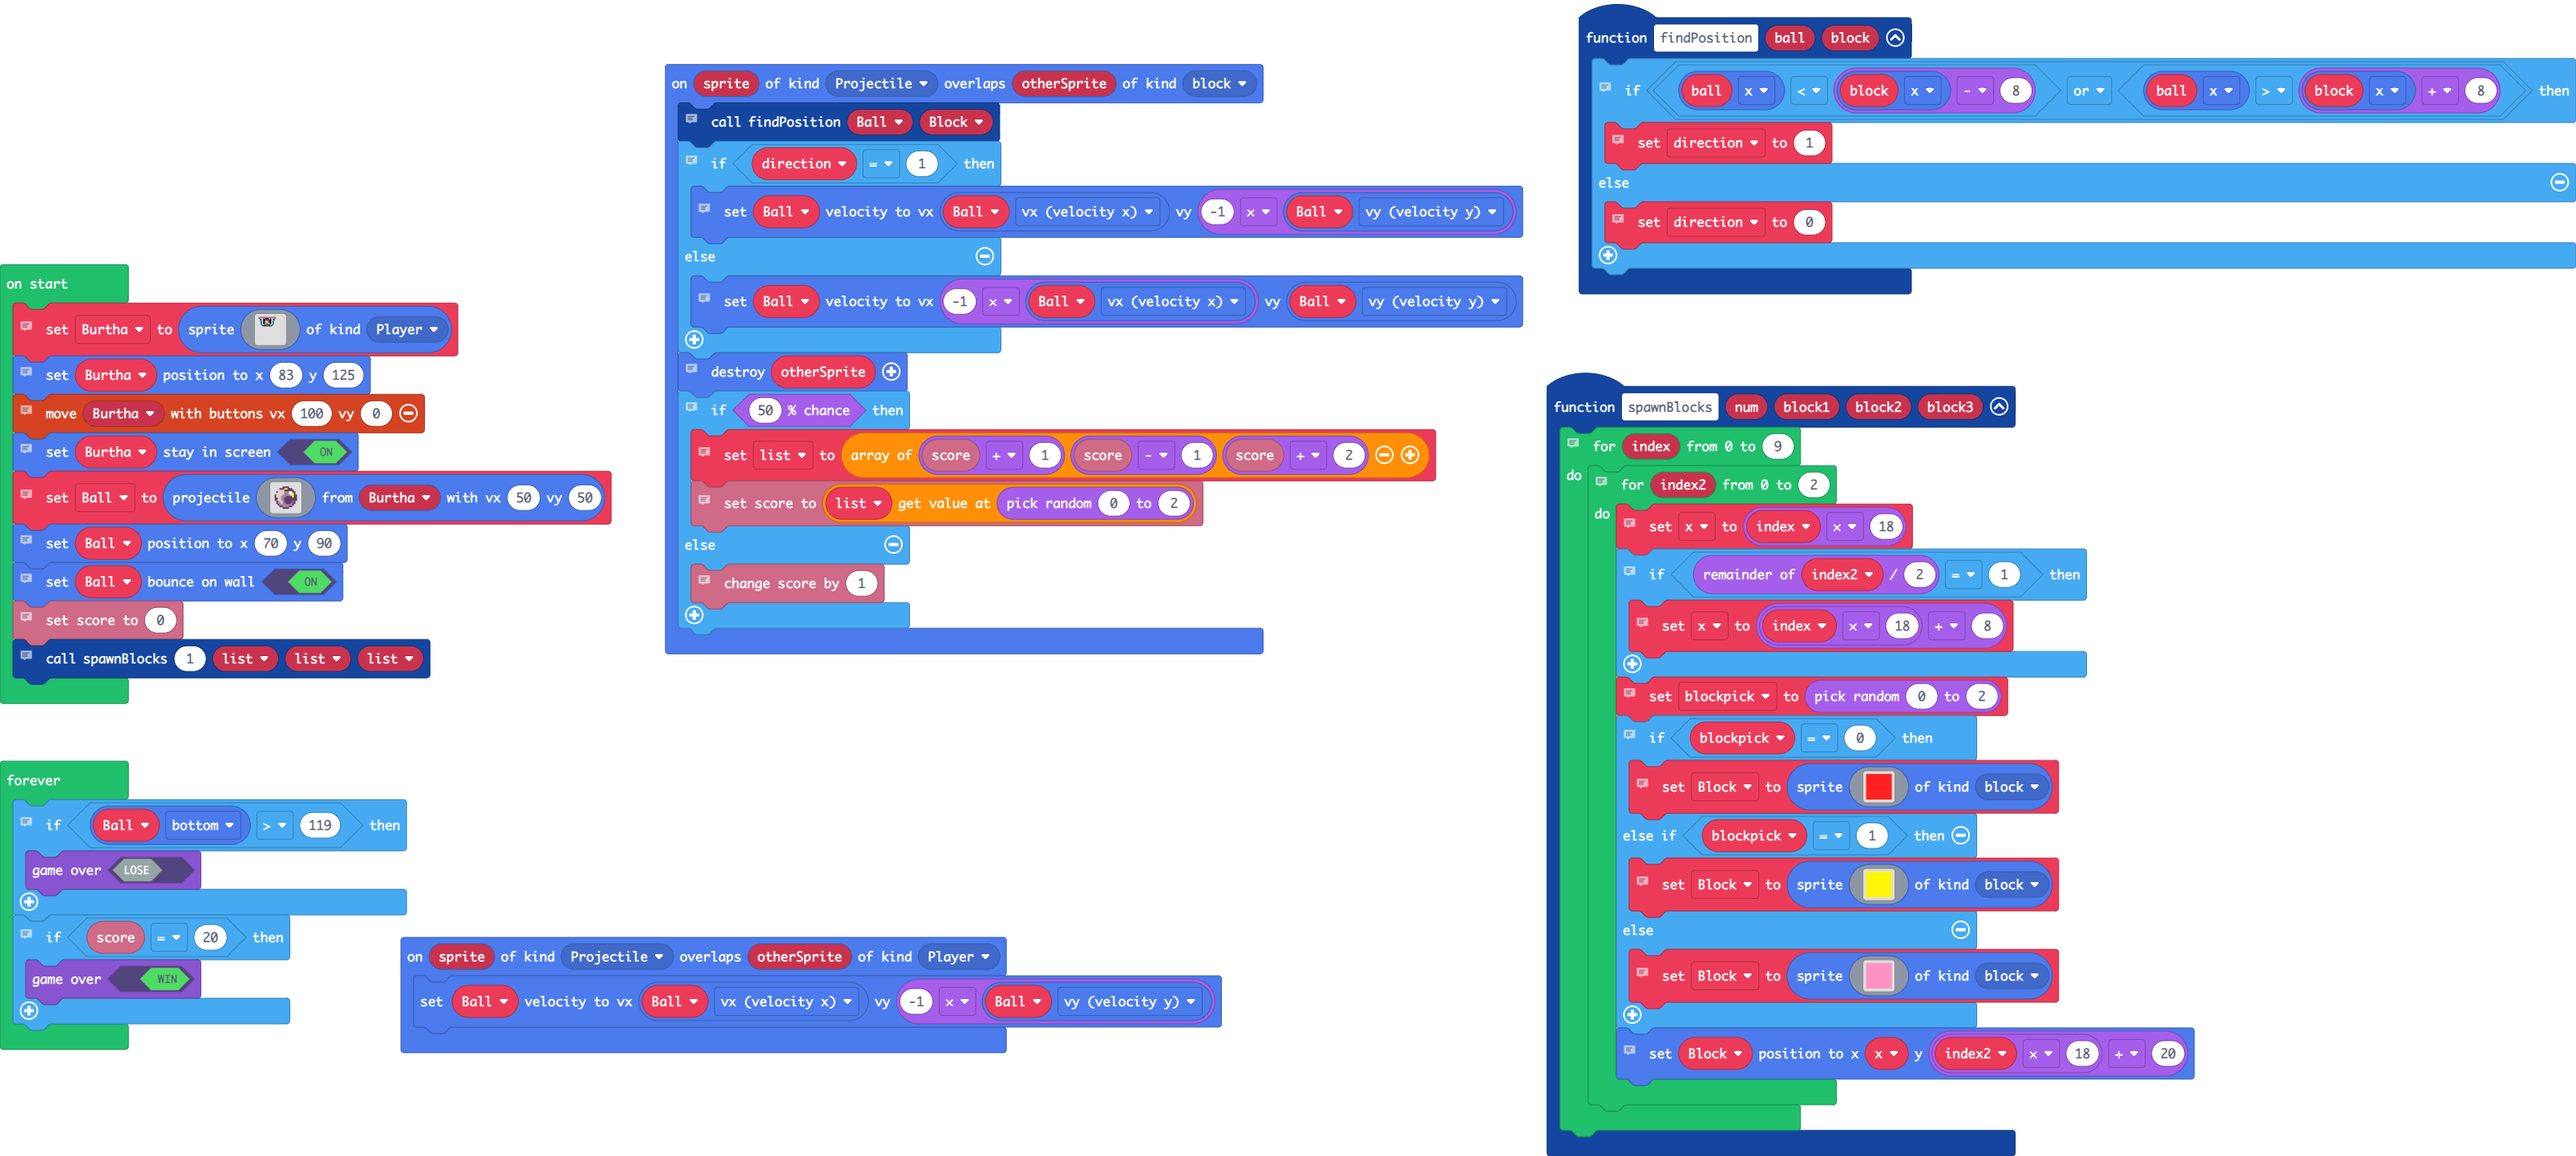
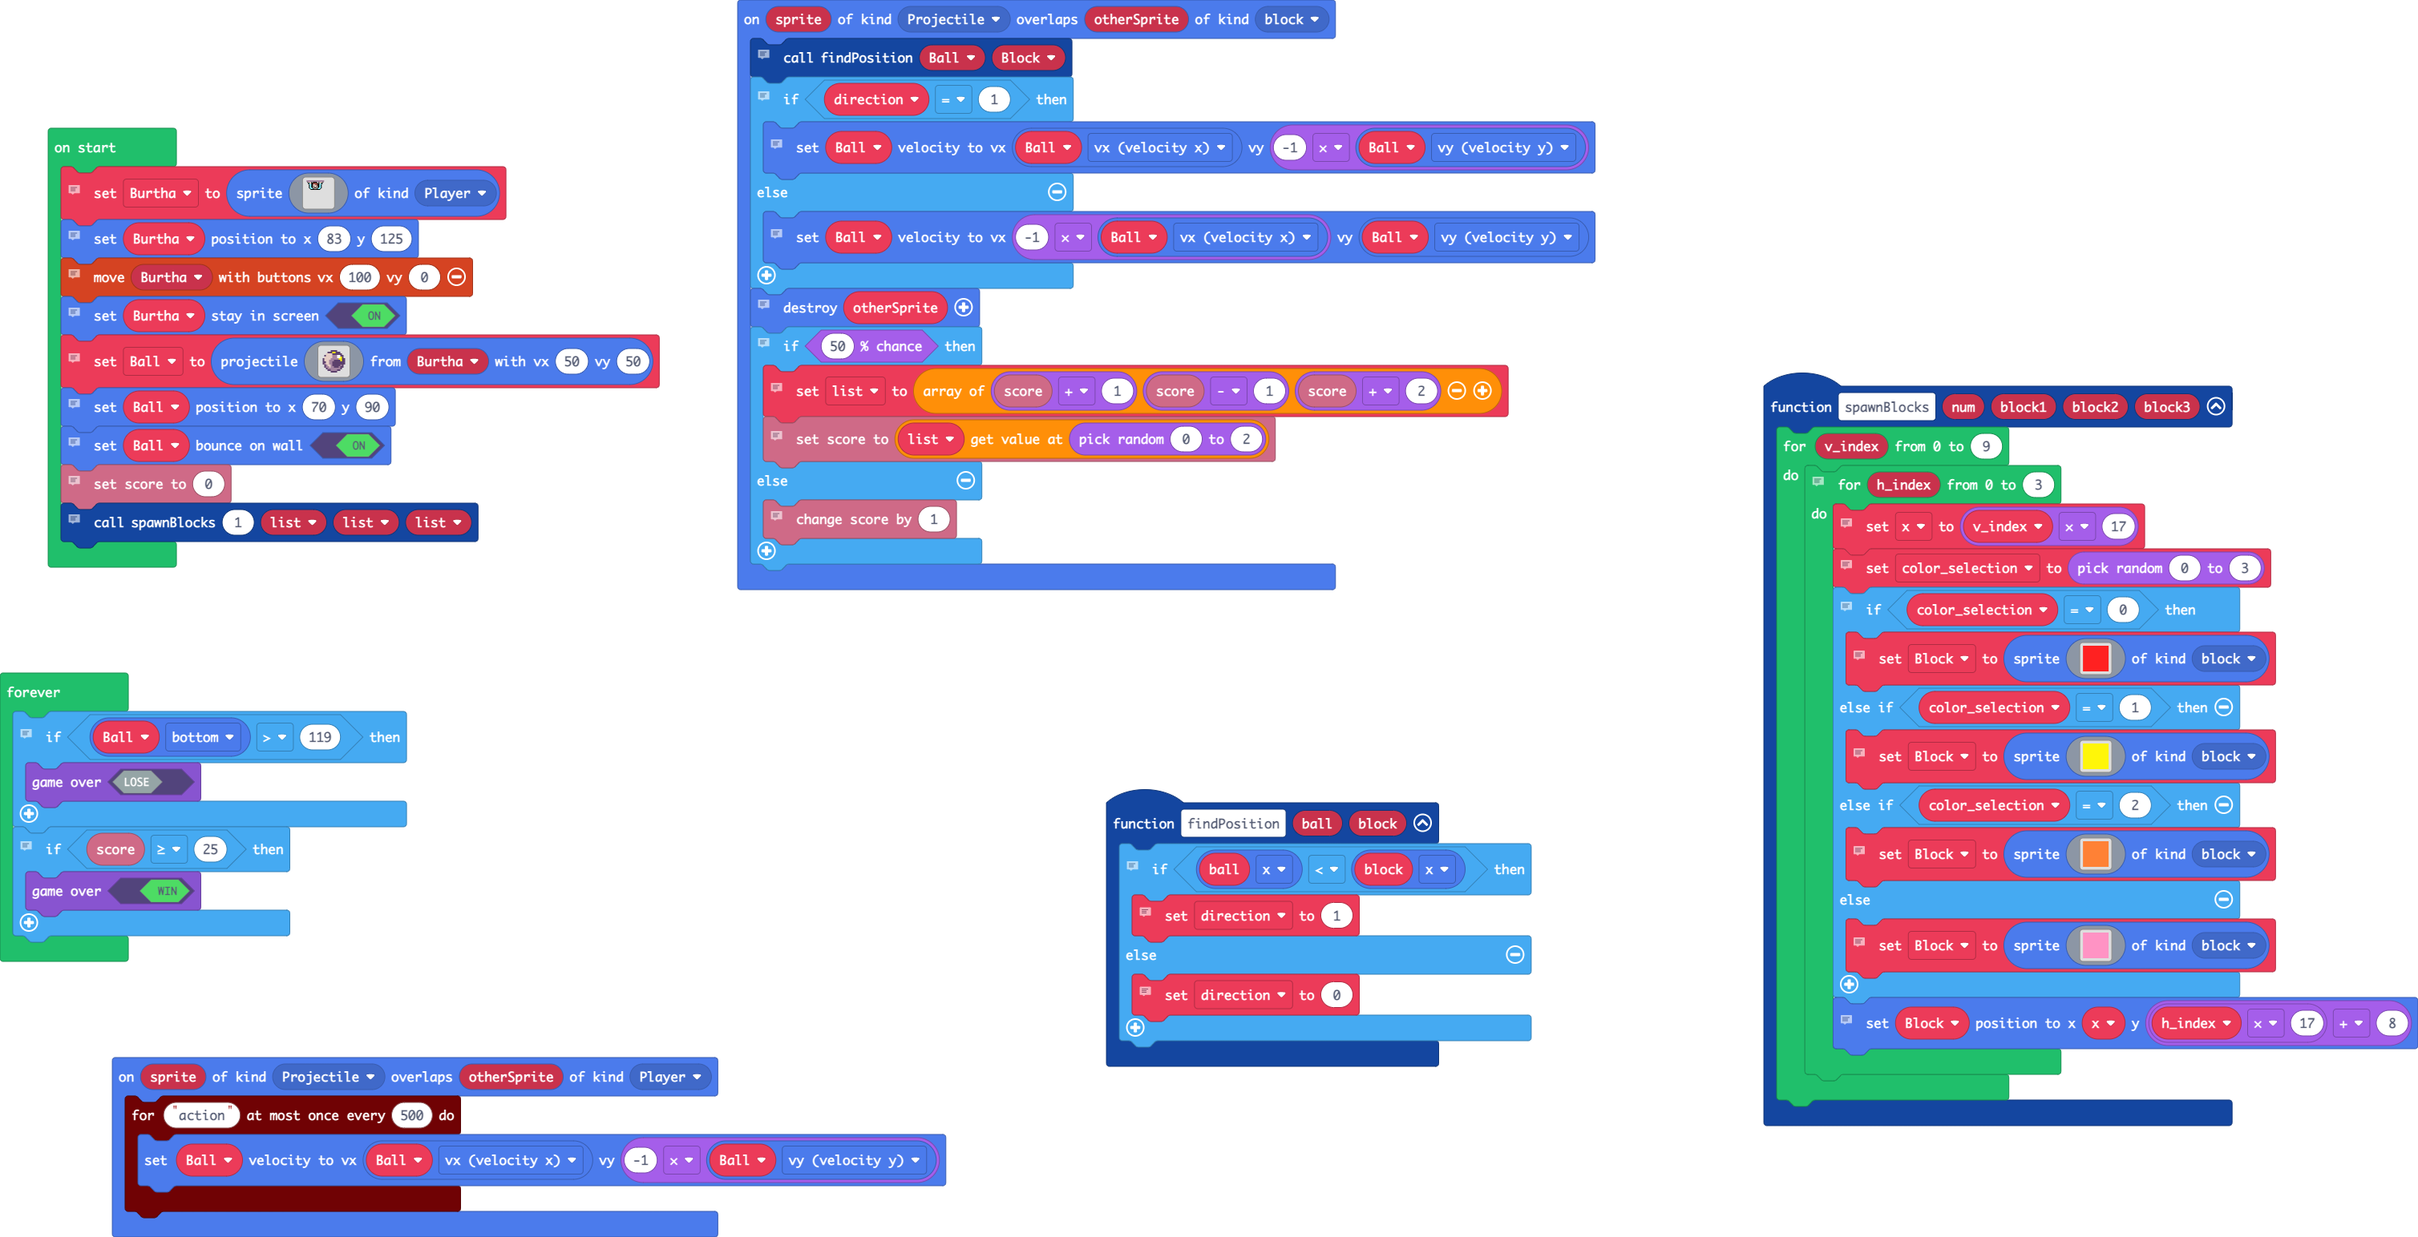
Update pxt.json, main.blocks, main.ts

diff --git a/main.ts b/main.ts
@@ -2,26 +2,21 @@ namespace SpriteKind {
     export const block = SpriteKind.create()
 }
 sprites.onOverlap(SpriteKind.Projectile, SpriteKind.Player, function (sprite, otherSprite) {
-    Ball2.setVelocity(Ball2.vx, -1 * Ball2.vy)
+    timer.throttle("action", 500, function () {
+        Ball2.setVelocity(Ball2.vx, -1 * Ball2.vy)
+    })
 })
 function spawnBlocks (num: number, block1: any[], block2: any[], block3: any[]) {
-    // repeats for 10 times, allowing the blocks to spawn 10 times
-    for (let index = 0; index <= 9; index++) {
-        // repeats 3 times for each times index is repeating itself
-        for (let index2 = 0; index2 <= 2; index2++) {
-            // sets the variable x to index x 18
-            x = index * 18
-            // If index 2 / 2 = 1, then
-            if (index2 % 2 == 1) {
-                // set variable x to index times 18 + 8
-                x = index * 18 + 8
-            }
-            // sets blockpick to pick a random number between 0 - 2
-            blockpick = randint(0, 2)
-            // if blockpick variable is equal to 0, then... If blockpick is equal to 1, then...
-            // else, then...
-            if (blockpick == 0) {
-                // block becomes red sprite
+    for (let v_index = 0; v_index <= 9; v_index++) {
+        // loops for a total of 4 times everytime that the loop of v_index is looped once
+        for (let h_index = 0; h_index <= 3; h_index++) {
+            // sets the variable x to v_index x 17
+            x = v_index * 17
+            // sets color_selection to pick a random number between 0 and 2
+            color_selection = randint(0, 3)
+            // this asks the program whether variable color_selection is equal to either 0, 1 or 2, and if it is equal to 0, then it will pick a red block. if it is equal to 1, it will pick and yellow block, if its equal to 2 then it will pick an orange block and if it is not equal to either 0, 1 or 2, then it will be picking a pink block.
+            if (color_selection == 0) {
+                // sets a red block sprite to the block variable
                 Block = sprites.create(img`
                     2 2 2 2 2 2 2 2 2 2 2 2 2 2 2 2 
                     2 2 2 2 2 2 2 2 2 2 2 2 2 2 2 2 
@@ -40,8 +35,8 @@ function spawnBlocks (num: number, block1: any[], block2: any[], block3: any[]) 
                     2 2 2 2 2 2 2 2 2 2 2 2 2 2 2 2 
                     2 2 2 2 2 2 2 2 2 2 2 2 2 2 2 2 
                     `, SpriteKind.block)
-            } else if (blockpick == 1) {
-                // block becomes yellow sprite
+            } else if (color_selection == 1) {
+                // sets a yellow block sprite to the block variable
                 Block = sprites.create(img`
                     5 5 5 5 5 5 5 5 5 5 5 5 5 5 5 5 
                     5 5 5 5 5 5 5 5 5 5 5 5 5 5 5 5 
@@ -59,9 +54,29 @@ function spawnBlocks (num: number, block1: any[], block2: any[], block3: any[]) 
                     5 5 5 5 5 5 5 5 5 5 5 5 5 5 5 5 
                     5 5 5 5 5 5 5 5 5 5 5 5 5 5 5 5 
                     5 5 5 5 5 5 5 5 5 5 5 5 5 5 5 5 
+                    `, SpriteKind.block)
+            } else if (color_selection == 2) {
+                // sets a orange block sprite to the block variable
+                Block = sprites.create(img`
+                    4 4 4 4 4 4 4 4 4 4 4 4 4 4 4 4 
+                    4 4 4 4 4 4 4 4 4 4 4 4 4 4 4 4 
+                    4 4 4 4 4 4 4 4 4 4 4 4 4 4 4 4 
+                    4 4 4 4 4 4 4 4 4 4 4 4 4 4 4 4 
+                    4 4 4 4 4 4 4 4 4 4 4 4 4 4 4 4 
+                    4 4 4 4 4 4 4 4 4 4 4 4 4 4 4 4 
+                    4 4 4 4 4 4 4 4 4 4 4 4 4 4 4 4 
+                    4 4 4 4 4 4 4 4 4 4 4 4 4 4 4 4 
+                    4 4 4 4 4 4 4 4 4 4 4 4 4 4 4 4 
+                    4 4 4 4 4 4 4 4 4 4 4 4 4 4 4 4 
+                    4 4 4 4 4 4 4 4 4 4 4 4 4 4 4 4 
+                    4 4 4 4 4 4 4 4 4 4 4 4 4 4 4 4 
+                    4 4 4 4 4 4 4 4 4 4 4 4 4 4 4 4 
+                    4 4 4 4 4 4 4 4 4 4 4 4 4 4 4 4 
+                    4 4 4 4 4 4 4 4 4 4 4 4 4 4 4 4 
+                    4 4 4 4 4 4 4 4 4 4 4 4 4 4 4 4 
                     `, SpriteKind.block)
             } else {
-                // block becomes pink sprite
+                // sets a pink block sprite to the block variable
                 Block = sprites.create(img`
                     3 3 3 3 3 3 3 3 3 3 3 3 3 3 3 3 
                     3 3 3 3 3 3 3 3 3 3 3 3 3 3 3 3 
@@ -81,26 +96,25 @@ function spawnBlocks (num: number, block1: any[], block2: any[], block3: any[]) 
                     3 3 3 3 3 3 3 3 3 3 3 3 3 3 3 3 
                     `, SpriteKind.block)
             }
-            // sets block position to x of variable x and y index time 18 + 20
-            Block.setPosition(x, index2 * 18 + 20)
+            // will set block sprite to a position x of x variable and y of h_index times 17 + 8
+            Block.setPosition(x, h_index * 17 + 8)
         }
     }
 }
 sprites.onOverlap(SpriteKind.Projectile, SpriteKind.block, function (sprite, otherSprite) {
     // calls function findPosition
     findPosition(Ball2, Block)
-    // if direction variable = 1, then...
-    // else then...
+    // if direction is equal to one, then the ball will bounce downward from the block x position, else it will bounce upwards from the block x position
     if (direction == 1) {
-        // sets ball velocity to vx (velocity x) and vy to -1 times ball (velocity y) 
+        // sets ball velocity to its vx and vy times -1, making it bounce at all time away from where it hit the block
         Ball2.setVelocity(Ball2.vx, -1 * Ball2.vy)
     } else {
-        // sets ball to vx -1 times ball (velocity x) and vy ball (velocity y)
+        // sets the ball velocity to vx times -1 and vy to ball vy.
         Ball2.setVelocity(-1 * Ball2.vx, Ball2.vy)
     }
     // destroys othersprite
     sprites.destroy(otherSprite)
-    // if 50% is true, then...
+    // if 50% is true, then a random variable from the list will be chosen and will change the score by that amount, else the score is changed by 1
     // else then...
     if (Math.percentChance(50)) {
         // creates list of array score +1, score - 1, score + 2
@@ -113,9 +127,8 @@ sprites.onOverlap(SpriteKind.Projectile, SpriteKind.block, function (sprite, oth
     }
 })
 function findPosition (ball: Sprite, block: Sprite) {
-    // if ball x position is less than block x position - 8 or ball x position is bigger than block x position + 8 then...
-    // else then...
-    if (ball.x < block.x - 8 || ball.x > block.x + 8) {
+    // if the x position of ball is smaller than the x position of block, then direction is set to 1, else it is set to 0
+    if (ball.x < block.x) {
         // set direction variable to 1
         direction = 1
     } else {
@@ -125,7 +138,7 @@ function findPosition (ball: Sprite, block: Sprite) {
 }
 let direction = 0
 let Block: Sprite = null
-let blockpick = 0
+let color_selection = 0
 let x = 0
 let list: number[] = []
 let Ball2: Sprite = null
@@ -169,8 +182,8 @@ forever(function () {
     if (Ball2.bottom > 119) {
         game.gameOver(false)
     }
-    // if score is equal to 20, then game over win happens
-    if (info.score() == 20) {
+    // if score is equal to 25, then game over win happens
+    if (info.score() >= 25) {
         game.gameOver(true)
     }
 })
